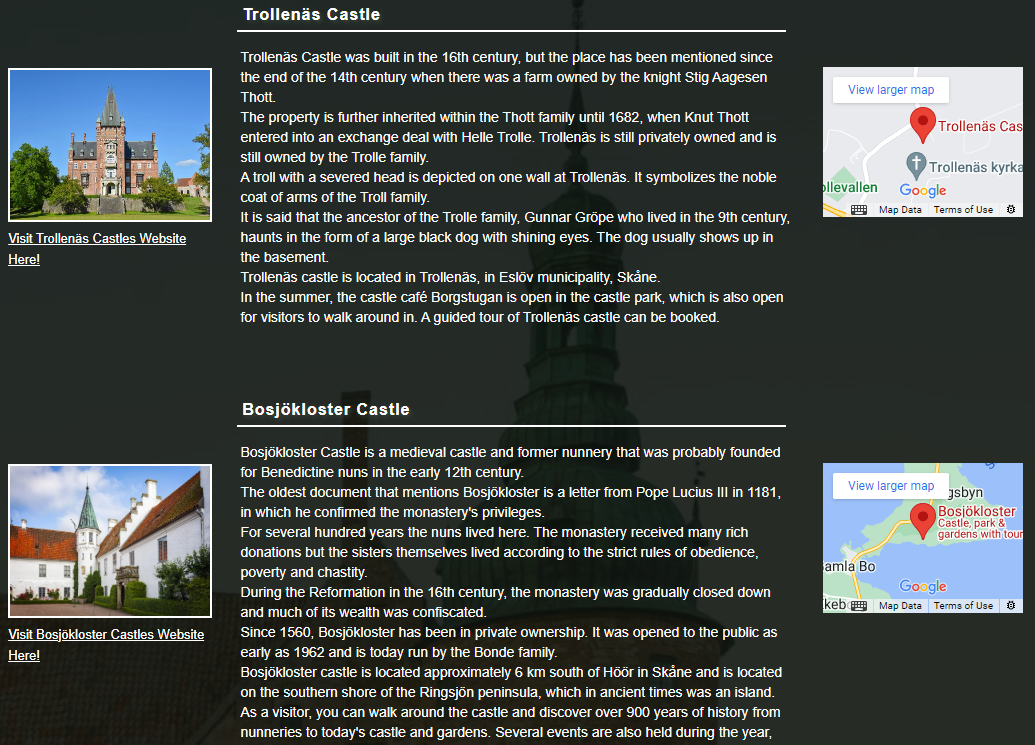
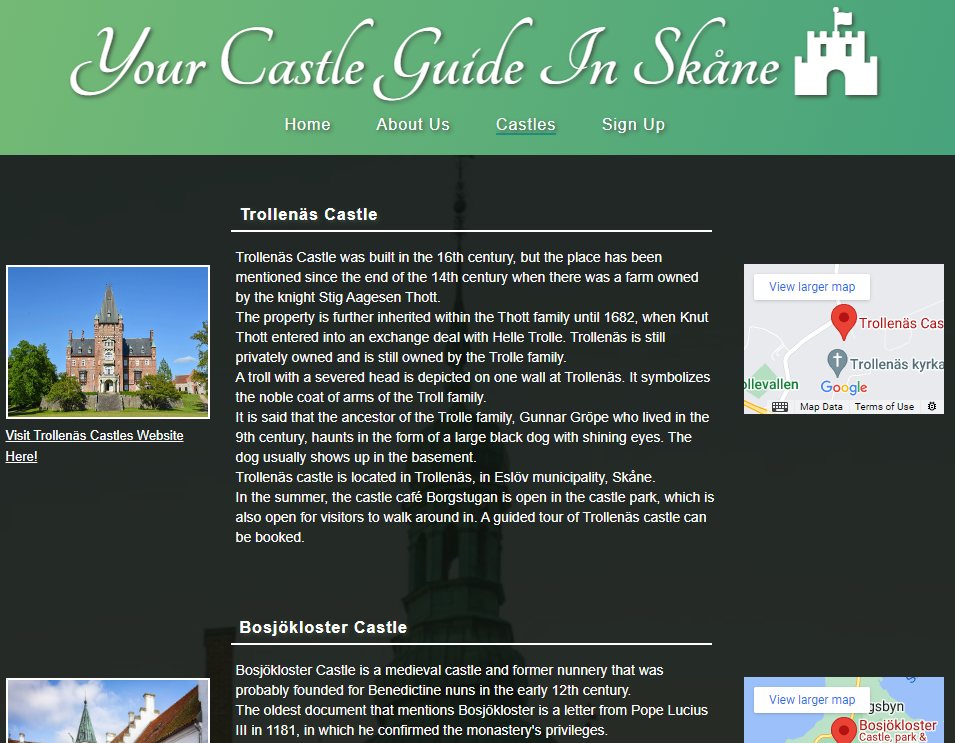
docs: Add text for Home page and Header section

diff --git a/assets/css/style.css b/assets/css/style.css
@@ -60,6 +60,7 @@ hr {
     border: 5px solid #1E8F83;
 }
 
+/* Creates a border for the page the user is currently on*/
 .active {
     border-bottom: 2px solid #1E8F83;
 }

diff --git a/README.md b/README.md
@@ -22,23 +22,55 @@ The site is intended to target people who wants to visit and learn more about ca
 
 ### Existing Features
 
-- Home page
+Home page
+- In the homepage, when first loaded the user welcomes with a zoom out effect on the background image of a castle. 
+- The name and location is also stated in a small colored circle to catch the users attention.
 
 ![Home page](docs/README-images/homepage-feature.png)
 
-- Header
+Header
+- A header section with the logo and icon. 
+- Navigation links for each page _Home_ (index.html), _About_ (about.html), _Castles_ (castles.html) and _Sign up_ (sign-up.html).
+- A colored border effect for letting the user know wich page its currently on.
+- The navigation links also have a colored increased padding when hovered over. 
 
 ![Header](docs/README-images/header.png)
 
 - About
 
-![Header](docs/README-images/aboutpage%20.png)
+![About](docs/README-images/aboutpage%20.png)
 
 - Castles
 
-![Castles over 992px](docsREADME-images/castles-over-992px.png)
+The castle page contains:
 
+- An image to give the user a perception about the castle looks.
+- A clickable map wich opens up in a new tap to give the user a quick perception of the castles location.
+- A short describing text about the castle and its history. 
+- A link to the castles website.
+
+Responsive design
+
+- How the castle page looks on devices over 1200px 
+![Castles over 1200px](docs/README-images/castles-over-1200px.png)
+
+- How the castle page looks on devices over 992px 
+![Castles over 992px](docs/README-images/castles-over-992px.png)
+
+- How the castle page looks on devices over 768px
 ![Castles over 768px](docs/README-images/castles-over-768px.png)
+
+- How the castle page looks on devices over 600px
+![Castles over 600x](docs/README-images/castles-over-600px.png)
+
+- How the castle page looks on devices over 300px
+
+![Castles over 300x](docs/README-images/castles-over-300px.png)
+
+- How the castle page looks on devices under 300px
+
+![Castles under 300x](docs/README-images/castles-under-300px.png)
+
 
 - Sign up
 
@@ -124,6 +156,7 @@ The live link: https://moolleer.github.io/castle-guide/
 ## Credits
 
 ### Content
+- Inspiration from the Love Running projects zoom effect for home page and active class for the navigation links.
 - Most of the text and inspiration about the castles are based on information from [Swedish nomad](https://www.swedishnomad.com/sv/skanska-slott/) and [Slottsguiden](https://slottsguiden.info/)
 
 ### Media   
